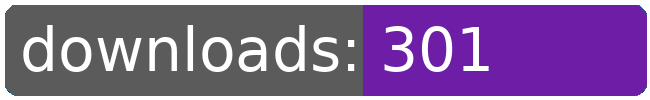
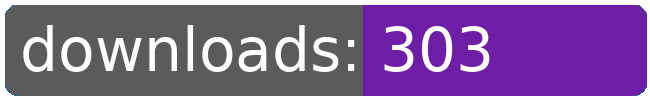
dl log written

Changed region(s): [[0.7077, 0.24, 0.7692, 0.72]]

diff --git a/README.md b/README.md
@@ -87,8 +87,8 @@
 		<td>206</td>
 		<td>241</td>
 		<td>279</td>
-		<td>301</td>
-		<td>+ 22</td>
+		<td>303</td>
+		<td>+ 24</td>
 	</tr>
 	<tr>
 		<td>obtainheron</td>
@@ -98,8 +98,8 @@
 		<td>0</td>
 		<td>0</td>
 		<td>20</td>
-		<td>36</td>
-		<td>+ 16</td>
+		<td>38</td>
+		<td>+ 18</td>
 	</tr>
 	<tr>
 		<td>pugoutfitter</td>
@@ -186,8 +186,8 @@
 		<td></td>
 		<td></td>
 		<td></td>
-		<td>2382</td>
-		<td>198</td>
+		<td>2386</td>
+		<td>202</td>
 	</tr>
 </table>
 </sub></sup>
@@ -212,8 +212,8 @@
 		<td>206</td>
 		<td>241</td>
 		<td>279</td>
-		<td>301</td>
-		<td>+ 22</td>
+		<td>303</td>
+		<td>+ 24</td>
 	</tr>
 	<tr>
 		<td>capture.archons</td>
@@ -333,8 +333,8 @@
 		<td>0</td>
 		<td>0</td>
 		<td>20</td>
-		<td>36</td>
-		<td>+ 16</td>
+		<td>38</td>
+		<td>+ 18</td>
 	</tr>
 	<tr>
 		<td>pugoutfitter</td>
@@ -377,8 +377,8 @@
 		<td></td>
 		<td></td>
 		<td></td>
-		<td>2382</td>
-		<td>198</td>
+		<td>2386</td>
+		<td>202</td>
 	</tr>
 </table>
 </sub></sup>
